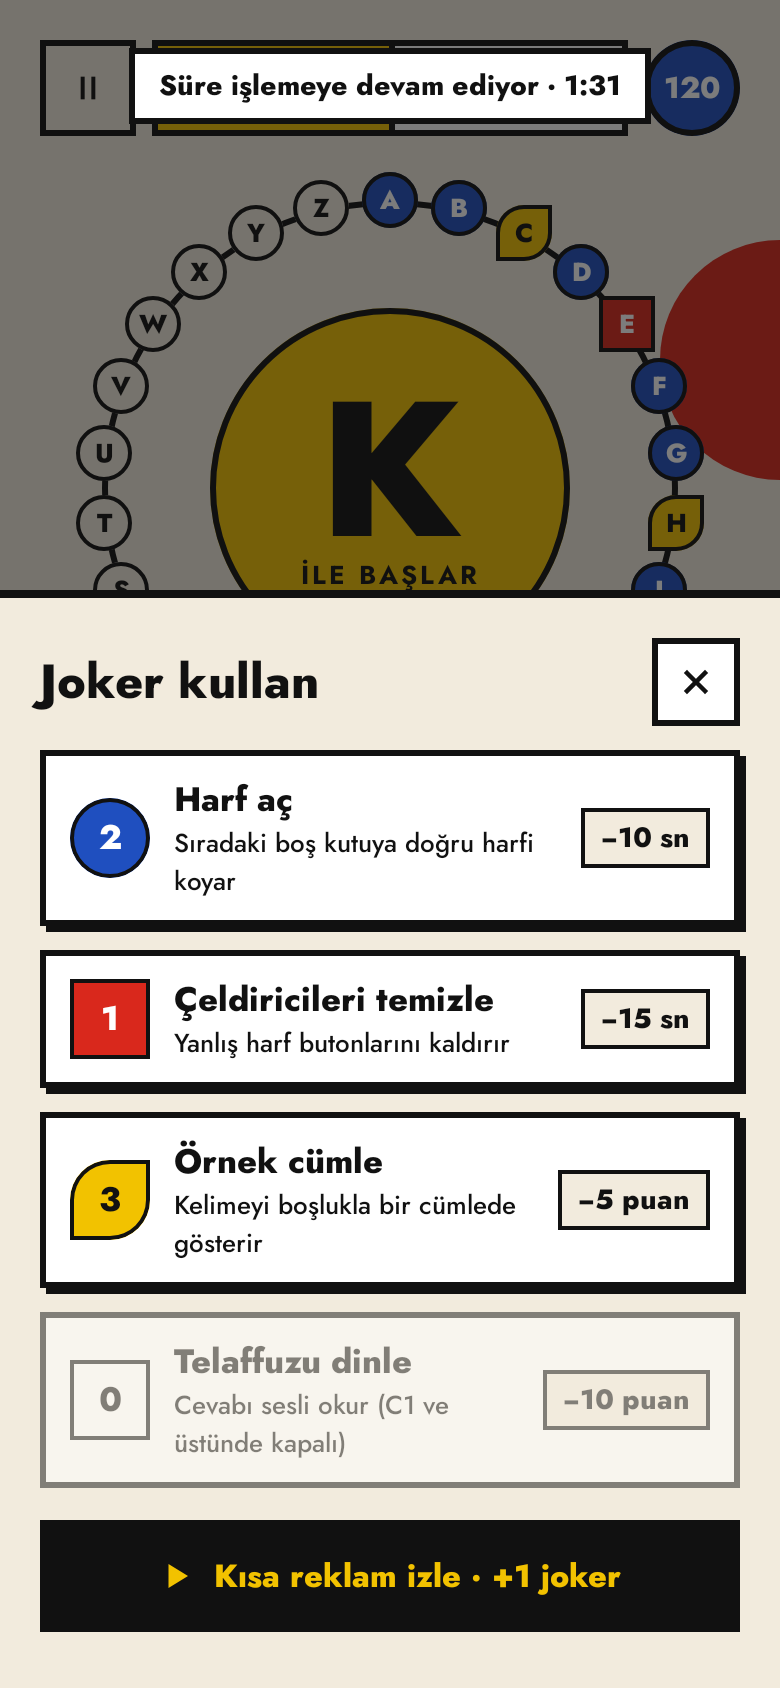
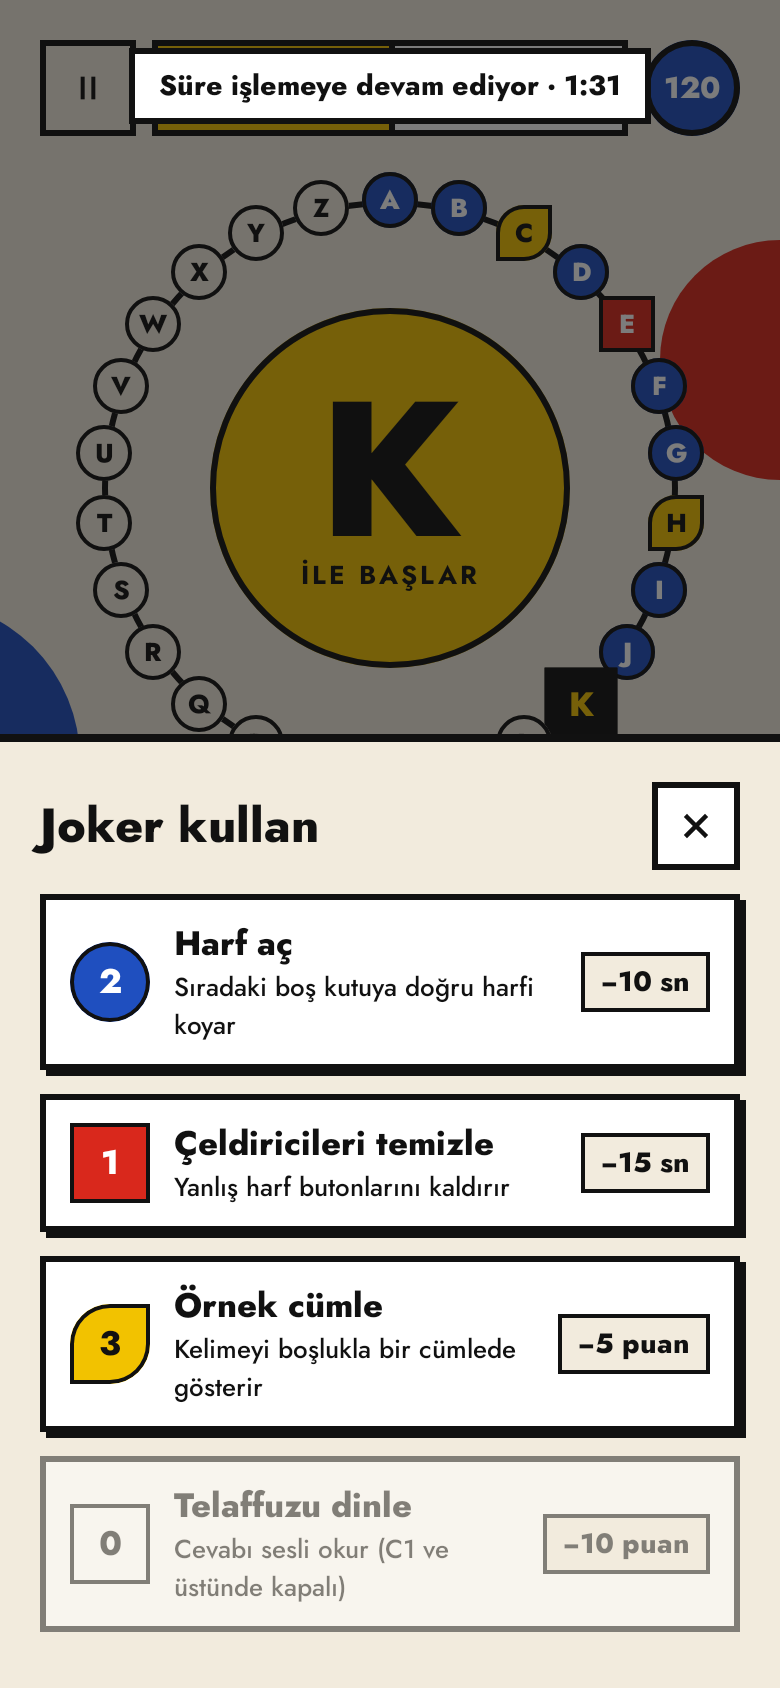
feat(game): owner decisions on play-again, ad button and combo badge
TEKRAR OYNA keeps starting the same level and mode but is hidden after a
Daily wheel (one scored attempt per day); both deviations from 06-result
are noted in screen-map. The rewarded-ad joker button sits behind
FeatureFlags.rewardedAdJokers (off until M7). The x N SERI badge moves
into the HUD row next to the score so it never covers the centre letter
or the wheel chips; timings unchanged.

diff --git a/feature/game/src/commonMain/kotlin/dev/talhabayhan/lexi/feature/game/result/ResultScreen.kt b/feature/game/src/commonMain/kotlin/dev/talhabayhan/lexi/feature/game/result/ResultScreen.kt
@@ -123,7 +123,7 @@ internal fun ResultScreen(state: ResultUiState, onIntent: (ResultIntent) -> Unit
                 Stats(state)
                 Review(state, onIntent)
                 Spacer(Modifier.weight(1f))
-                Actions(onIntent)
+                Actions(state.canPlayAgain, onIntent)
                 LexiTextLink(
                     text = stringResource(Res.string.result_home),
                     onClick = { onIntent(ResultIntent.Home) },
@@ -244,28 +244,33 @@ private fun Review(state: ResultUiState, onIntent: (ResultIntent) -> Unit) {
     }
 }
 
-/** 3-column grid, gap 10: TEKRAR OYNA spans two columns, Paylaş one (both 60dp, s5). */
+/**
+ * 3-column grid, gap 10: TEKRAR OYNA spans two columns, Paylaş one (both 60dp, s5). Without [canPlayAgain] (a finished
+ * Daily, deviation from the design) Paylaş takes the whole row.
+ */
 @Composable
-private fun Actions(onIntent: (ResultIntent) -> Unit) {
+private fun Actions(canPlayAgain: Boolean, onIntent: (ResultIntent) -> Unit) {
     val gap = LexiTheme.dimens.gap10
     BoxWithConstraints(Modifier.fillMaxWidth()) {
         val column = (maxWidth - gap * (ResultDefaults.CTA_COLUMNS - 1)) / ResultDefaults.CTA_COLUMNS
         Row(horizontalArrangement = Arrangement.spacedBy(gap)) {
-            LexiButton(
-                text = stringResource(Res.string.result_play_again),
-                onClick = { onIntent(ResultIntent.PlayAgain) },
-                textStyle = LexiTheme.typography.button20Wide,
-                height = LexiButtonDefaults.LargerHeight,
-                modifier = Modifier.width(
-                    column * ResultDefaults.CTA_PRIMARY_SPAN + gap * (ResultDefaults.CTA_PRIMARY_SPAN - 1),
-                ),
-            )
+            if (canPlayAgain) {
+                LexiButton(
+                    text = stringResource(Res.string.result_play_again),
+                    onClick = { onIntent(ResultIntent.PlayAgain) },
+                    textStyle = LexiTheme.typography.button20Wide,
+                    height = LexiButtonDefaults.LargerHeight,
+                    modifier = Modifier.width(
+                        column * ResultDefaults.CTA_PRIMARY_SPAN + gap * (ResultDefaults.CTA_PRIMARY_SPAN - 1),
+                    ),
+                )
+            }
             LexiButton(
                 text = stringResource(Res.string.result_share),
                 onClick = { onIntent(ResultIntent.Share) },
                 variant = LexiButtonVariant.Secondary,
                 height = LexiButtonDefaults.LargerHeight,
-                modifier = Modifier.width(column),
+                modifier = if (canPlayAgain) Modifier.width(column) else Modifier.fillMaxWidth(),
             )
         }
     }

diff --git a/feature/game/src/commonMain/kotlin/dev/talhabayhan/lexi/feature/game/components/JokerSheet.kt b/feature/game/src/commonMain/kotlin/dev/talhabayhan/lexi/feature/game/components/JokerSheet.kt
@@ -63,14 +63,14 @@ import org.jetbrains.compose.resources.stringResource
 /**
  * The joker sheet (`05-joker-sheet`): bottom sheet (motion.md #10) with the four jokers and the ad button, plus the
  * "Süre işlemeye devam ediyor · 1:31" pill at the top, because the clock keeps running (`GAME_RULES.md` §5; untimed
- * modes show no pill). [adReward] is `GameConfig.rewardedAdJokerReward`. Fills its parent; renders nothing while
+ * modes show no pill). [adReward] is `GameConfig.rewardedAdJokerReward`; null hides the ad button (feature flag). Fills its parent; renders nothing while
  * not [visible].
  */
 @Composable
 internal fun JokerSheet(
     visible: Boolean,
     jokers: ImmutableList<JokerUi>,
-    adReward: Int,
+    adReward: Int?,
     clock: () -> GameClockUi,
     onIntent: (GameIntent) -> Unit,
     modifier: Modifier = Modifier,
@@ -85,16 +85,18 @@ internal fun JokerSheet(
             closeContentDescription = stringResource(Res.string.game_jokers_close),
         ) {
             jokers.forEach { joker -> JokerOption(joker, onClick = { onIntent(GameIntent.UseJoker(joker.type)) }) }
-            LexiButton(
-                text = stringResource(Res.string.game_jokers_ad, adReward),
-                // TODO(M7): rewarded ad with UMP consent (`ROADMAP.md` M7); the button has no action until then.
-                onClick = {},
-                variant = LexiButtonVariant.Ink,
-                shadow = null,
-                leadingIcon = LexiIcons.Play,
-                height = LexiButtonDefaults.LargeHeight,
-                modifier = Modifier.fillMaxWidth().padding(top = JokerRowDefaults.AdButtonTopMargin),
-            )
+            if (adReward != null) {
+                LexiButton(
+                    text = stringResource(Res.string.game_jokers_ad, adReward),
+                    // TODO(M7): rewarded ad with UMP consent (`ROADMAP.md` M7); behind `FeatureFlags.rewardedAdJokers`.
+                    onClick = {},
+                    variant = LexiButtonVariant.Ink,
+                    shadow = null,
+                    leadingIcon = LexiIcons.Play,
+                    height = LexiButtonDefaults.LargeHeight,
+                    modifier = Modifier.fillMaxWidth().padding(top = JokerRowDefaults.AdButtonTopMargin),
+                )
+            }
         }
         val timed by remember(clock) { derivedStateOf { clock().isTimed } }
         val fade = tween<Float>(motion.bottomSheetDurationMillis, easing = motion.mechanical)

diff --git a/feature/game/src/commonMain/kotlin/dev/talhabayhan/lexi/feature/game/components/GameMotion.kt b/feature/game/src/commonMain/kotlin/dev/talhabayhan/lexi/feature/game/components/GameMotion.kt
@@ -12,7 +12,6 @@ import androidx.compose.runtime.mutableStateMapOf
 import androidx.compose.runtime.mutableStateOf
 import androidx.compose.runtime.remember
 import androidx.compose.runtime.setValue
-import androidx.compose.ui.geometry.Offset
 import androidx.compose.ui.geometry.Rect
 import androidx.compose.ui.geometry.lerp
 import androidx.compose.ui.layout.LayoutCoordinates
@@ -40,7 +39,7 @@ import kotlinx.coroutines.delay
  * - #3 pop + ring and #5 turn + morph + arrow: [chipMotion] for `LetterWheel`.
  * - #4 shake: [slotsOffset] of the answer slots (their red comes from the state's wrong cells).
  * - #6: the current square jumps with the state; the centre letter slides inside `LetterWheel`.
- * - #7 [ComboAnimation]: burst and badge over the wheel centre ([GameMotionLayer]).
+ * - #7 [ComboAnimation]: burst and badge in the HUD row next to the score ([GameMotionLayer]).
  * - #8: only feedback here; colours and the per-second counter pulse live in `TimerBar`.
  */
 @Stable
@@ -66,7 +65,7 @@ internal class GameMotion(
 
     // Placement of the elements the overlay animates between (not state: read when an animation starts).
     private var overlay: LayoutCoordinates? = null
-    private var wheel: LayoutCoordinates? = null
+    private var hud: LayoutCoordinates? = null
     private val keys = HashMap<Int, LayoutCoordinates>()
     private val cells = HashMap<Int, LayoutCoordinates>()
 
@@ -74,8 +73,8 @@ internal class GameMotion(
         overlay = coordinates
     }
 
-    fun onWheelPlaced(coordinates: LayoutCoordinates) {
-        wheel = coordinates
+    fun onHudPlaced(coordinates: LayoutCoordinates) {
+        hud = coordinates
     }
 
     fun onKeyPlaced(index: Int, coordinates: LayoutCoordinates) {
@@ -92,8 +91,8 @@ internal class GameMotion(
     /** #3 / #5 motion of the wheel chip of [letter], null at rest. */
     fun chipMotion(letter: Char): WheelChipMotion? = chips[letter]
 
-    /** Centre of the wheel in the overlay's coordinates, null before both are placed. */
-    fun wheelCenter(): Offset? = bounds(wheel)?.center
+    /** The HUD bar (pause, timer, score) in the overlay's coordinates, null before both are placed. */
+    fun hudBounds(): Rect? = bounds(hud)
 
     suspend fun play(effect: GameEffect) {
         GameFeedback.of(effect)?.let { feedback ->

diff --git a/feature/game/src/commonMain/kotlin/dev/talhabayhan/lexi/feature/game/components/GameMotionLayer.kt b/feature/game/src/commonMain/kotlin/dev/talhabayhan/lexi/feature/game/components/GameMotionLayer.kt
@@ -15,6 +15,7 @@ import androidx.compose.ui.semantics.clearAndSetSemantics
 import androidx.compose.ui.unit.Constraints
 import dev.talhabayhan.lexi.core.designsystem.component.ComboBadge
 import dev.talhabayhan.lexi.core.designsystem.component.ComboBurst
+import dev.talhabayhan.lexi.core.designsystem.component.GameHudDefaults
 import dev.talhabayhan.lexi.core.designsystem.modifier.lexiSurface
 import dev.talhabayhan.lexi.core.designsystem.theme.LexiTheme
 import dev.talhabayhan.lexi.feature.game.generated.resources.Res
@@ -62,20 +63,22 @@ private fun FlyingLetter(flight: LetterFlight) {
 }
 
 /**
- * #7 centred on the wheel. DESIGN-DEBT: `15-motion` shows badge and burst alone; their place in the game (the wheel
- * centre) has no design (`screen-map.md`).
+ * #7 in the HUD row, vertically centred on it and right-aligned next to the score circle (over the empty end of the
+ * timer bar), so it stays off the centre letter and the wheel chips (the strip under the HUD is too thin for it).
+ * DESIGN-DEBT: `15-motion` shows badge and burst alone; their place in the game has no design (`screen-map.md`).
  */
 @Composable
 private fun Combo(combo: ComboAnimation, motion: GameMotion) {
+    val scoreClearance = GameHudDefaults.BarHeight + LexiTheme.dimens.gap8
     Box(
         modifier = Modifier.layout { measurable, constraints ->
             val placeable = measurable.measure(constraints.copy(minWidth = 0, minHeight = 0))
-            val center = motion.wheelCenter()
+            val hud = motion.hudBounds()
             layout(placeable.width, placeable.height) {
-                if (center != null) {
+                if (hud != null) {
                     placeable.place(
-                        (center.x - placeable.width / 2f).roundToInt(),
-                        (center.y - placeable.height / 2f).roundToInt(),
+                        (hud.right - scoreClearance.toPx() - placeable.width).roundToInt(),
+                        (hud.center.y - placeable.height / 2f).roundToInt(),
                     )
                 }
             }

diff --git a/feature/game/src/commonTest/kotlin/dev/talhabayhan/lexi/feature/game/GameViewModelTest.kt b/feature/game/src/commonTest/kotlin/dev/talhabayhan/lexi/feature/game/GameViewModelTest.kt
@@ -6,6 +6,7 @@ import app.cash.turbine.ReceiveTurbine
 import app.cash.turbine.test
 import dev.talhabayhan.lexi.core.designsystem.component.AnswerSlotState
 import dev.talhabayhan.lexi.core.designsystem.component.WheelLetterState
+import dev.talhabayhan.lexi.core.domain.config.FeatureFlags
 import dev.talhabayhan.lexi.core.domain.game.GameConfig
 import dev.talhabayhan.lexi.core.domain.game.GameEngine
 import dev.talhabayhan.lexi.core.domain.game.GameMode
@@ -79,6 +80,7 @@ class GameViewModelTest {
         handle: SavedStateHandle = routeHandle(),
         jokerRepository: JokerRepository = jokers,
         sessionRepository: SessionRepository = sessions,
+        flags: FeatureFlags = FeatureFlags(),
     ): GameViewModel = GameViewModel(
         route = route,
         handle = handle,
@@ -92,6 +94,7 @@ class GameViewModelTest {
         config = config,
         timeSource = testScheduler.timeSource,
         seeds = SeedSource { SEED },
+        flags = flags,
     )
 
     /** Loaded and resumed: the game has started (A is current). */
@@ -440,6 +443,17 @@ class GameViewModelTest {
     }
 
     // region joker sheet (05-joker-sheet)
+
+    @Test
+    fun `the joker ad button is off by default and follows the feature flag`() = runTest {
+        assertFalse(started().state.value.showJokerAd)
+
+        val flagged = viewModel(flags = FeatureFlags(rewardedAdJokers = true)).also {
+            runCurrent()
+            it.onIntent(GameIntent.Foreground)
+        }
+        assertTrue(flagged.state.value.showJokerAd)
+    }
 
     @Test
     fun `the joker sheet opens without pausing and the clock keeps running`() = runTest {

diff --git a/feature/game/src/commonMain/kotlin/dev/talhabayhan/lexi/feature/game/GameScreen.kt b/feature/game/src/commonMain/kotlin/dev/talhabayhan/lexi/feature/game/GameScreen.kt
@@ -96,7 +96,14 @@ internal fun GameScreen(
                 gap = dimens.gap16 * gapScale,
                 answerTopMargin = dimens.gap4 * gapScale,
                 maxWheelSize = if (short) GameScreenDefaults.ShortScreenWheelSize else LetterWheelDefaults.Size,
-                hud = { GameHudBar(state.score, clock, onPause = { onIntent(GameIntent.Pause) }) },
+                hud = {
+                    GameHudBar(
+                        state.score,
+                        clock,
+                        onPause = { onIntent(GameIntent.Pause) },
+                        modifier = Modifier.onPlaced(motion::onHudPlaced),
+                    )
+                },
                 wheel = { size ->
                     LetterWheel(
                         letters = state.wheel,
@@ -104,7 +111,6 @@ internal fun GameScreen(
                         ruleLabel = turn?.let { stringResource(it.rule.label()) }.orEmpty(),
                         size = size,
                         chipMotion = motion::chipMotion,
-                        modifier = Modifier.onPlaced(motion::onWheelPlaced),
                     )
                 },
                 clue = {
@@ -161,7 +167,7 @@ internal fun GameScreen(
         JokerSheet(
             visible = state.isJokerSheetOpen,
             jokers = state.jokers,
-            adReward = state.jokerAdReward,
+            adReward = state.jokerAdReward.takeIf { state.showJokerAd },
             clock = clock,
             onIntent = onIntent,
         )

diff --git a/feature/game/src/androidHostTest/kotlin/dev/talhabayhan/lexi/feature/game/result/ResultScreenBehaviourTest.kt b/feature/game/src/androidHostTest/kotlin/dev/talhabayhan/lexi/feature/game/result/ResultScreenBehaviourTest.kt
@@ -1,0 +1,39 @@
+package dev.talhabayhan.lexi.feature.game.result
+
+import androidx.compose.ui.test.ExperimentalTestApi
+import androidx.compose.ui.test.assertIsDisplayed
+import androidx.compose.ui.test.onNodeWithText
+import androidx.compose.ui.test.runComposeUiTest
+import dev.talhabayhan.lexi.core.designsystem.theme.LexiTheme
+import dev.talhabayhan.lexi.core.domain.game.GameMode
+import org.junit.Test
+import org.junit.runner.RunWith
+import org.robolectric.RobolectricTestRunner
+import org.robolectric.annotation.Config
+import org.robolectric.annotation.GraphicsMode
+
+@OptIn(ExperimentalTestApi::class)
+@RunWith(RobolectricTestRunner::class)
+@GraphicsMode(GraphicsMode.Mode.NATIVE)
+@Config(sdk = [36], qualifiers = "tr-w390dp-h844dp-xhdpi")
+class ResultScreenBehaviourTest {
+
+    @Test
+    fun `tekrar oyna is shown after a normal game`() = runComposeUiTest {
+        setContent { LexiTheme(reducedMotion = true) { ResultScreen(ResultSamples.design, onIntent = {}) } }
+
+        onNodeWithText("TEKRAR OYNA").assertIsDisplayed()
+    }
+
+    @Test
+    fun `tekrar oyna is hidden after a daily and share stays`() = runComposeUiTest {
+        setContent {
+            LexiTheme(reducedMotion = true) {
+                ResultScreen(ResultSamples.design.copy(mode = GameMode.DAILY), onIntent = {})
+            }
+        }
+
+        onNodeWithText("TEKRAR OYNA").assertDoesNotExist()
+        onNodeWithText("Paylaş").assertIsDisplayed()
+    }
+}

diff --git a/feature/game/src/commonMain/kotlin/dev/talhabayhan/lexi/feature/game/GameViewModel.kt b/feature/game/src/commonMain/kotlin/dev/talhabayhan/lexi/feature/game/GameViewModel.kt
@@ -4,6 +4,7 @@ import androidx.lifecycle.SavedStateHandle
 import androidx.lifecycle.ViewModel
 import androidx.lifecycle.viewModelScope
 import co.touchlab.kermit.Logger
+import dev.talhabayhan.lexi.core.domain.config.FeatureFlags
 import dev.talhabayhan.lexi.core.domain.feedback.Speaker
 import dev.talhabayhan.lexi.core.domain.game.EngineEffect
 import dev.talhabayhan.lexi.core.domain.game.GameConfig
@@ -73,6 +74,7 @@ internal class GameViewModel(
     private val config: GameConfig,
     private val timeSource: TimeSource.WithComparableMarks,
     private val seeds: SeedSource,
+    private val flags: FeatureFlags = FeatureFlags(),
 ) : ViewModel() {
     private val mutableState = MutableStateFlow(GameUiState())
     val state: StateFlow<GameUiState> = mutableState.asStateFlow()
@@ -259,6 +261,7 @@ internal class GameViewModel(
         mutableState.value = GameUiMapper.map(state, checkNotNull(engine), mutableState.value).copy(
             isJokerSheetOpen = jokerSheetOpen,
             isQuitConfirmation = quitConfirmation,
+            showJokerAd = flags.rewardedAdJokers,
         )
         mutableClock.value = GameUiMapper.clock(
             state = state,

diff --git a/feature/game/src/commonMain/kotlin/dev/talhabayhan/lexi/feature/game/result/ResultViewModel.kt b/feature/game/src/commonMain/kotlin/dev/talhabayhan/lexi/feature/game/result/ResultViewModel.kt
@@ -34,10 +34,16 @@ internal class ResultViewModel(
     private val mutableState = MutableStateFlow(initialState(route, config))
     val state: StateFlow<ResultUiState> = mutableState.asStateFlow()
 
-    /** The game behind TEKRAR OYNA: same level, mode and category. */
-    // TODO(M6): the Daily wheel allows one scored attempt per day (GAME_RULES.md §5), so a finished Daily must not be
-    //  replayable from here (hide or redirect TEKRAR OYNA).
-    val playAgain: GameRoute get() = GameRoute(route.gameLevel, route.gameMode, route.categoryId)
+    /**
+     * The game behind TEKRAR OYNA: same level, mode and category. Null for a finished Daily: it allows one scored
+     * attempt per day (`GAME_RULES.md` §5), so the button is hidden ([ResultUiState.canPlayAgain]).
+     */
+    val playAgain: GameRoute?
+        get() = if (mutableState.value.canPlayAgain) {
+            GameRoute(route.gameLevel, route.gameMode, route.categoryId)
+        } else {
+            null
+        }
 
     private var allRows: List<ReviewRowUi> = emptyList()
     private var expanded = false

diff --git a/shared/src/commonMain/kotlin/dev/talhabayhan/lexi/di/AppModules.kt b/shared/src/commonMain/kotlin/dev/talhabayhan/lexi/di/AppModules.kt
@@ -3,6 +3,7 @@ package dev.talhabayhan.lexi.di
 import androidx.compose.runtime.Composable
 import dev.talhabayhan.lexi.core.data.db.BundledContentDb
 import dev.talhabayhan.lexi.core.data.di.dataModule
+import dev.talhabayhan.lexi.core.domain.config.FeatureFlags
 import dev.talhabayhan.lexi.core.domain.game.GameConfig
 import dev.talhabayhan.lexi.core.domain.joker.GrantDailyJokers
 import dev.talhabayhan.lexi.core.domain.session.FinishGame
@@ -26,6 +27,7 @@ import org.koin.dsl.onClose
  */
 internal val appCoreModule: Module = module {
     single { GameConfig() }
+    single { FeatureFlags() }
     single<BundledContentDb> { ResourcesBundledContentDb() }
     single<AppClock> { SystemAppClock() }
     factory { FinishGame(sessions = get(), progress = get(), clock = get(), config = get()) }

diff --git a/feature/game/src/commonMain/kotlin/dev/talhabayhan/lexi/feature/game/GameContract.kt b/feature/game/src/commonMain/kotlin/dev/talhabayhan/lexi/feature/game/GameContract.kt
@@ -34,6 +34,8 @@ internal data class GameUiState(
     val jokers: ImmutableList<JokerUi> = persistentListOf(),
     /** Jokers one rewarded ad grants (`GameConfig.rewardedAdJokerReward`), for the sheet's ad button. */
     val jokerAdReward: Int = 0,
+    /** The ad button is shown (`FeatureFlags.rewardedAdJokers`, off until M7). */
+    val showJokerAd: Boolean = false,
     /** The joker sheet is open; the clock keeps running (`GAME_RULES.md` §5). */
     val isJokerSheetOpen: Boolean = false,
     /** The pause dialog asks to confirm giving up ("Bırak"). Only while [isPaused]. */

diff --git a/feature/game/src/commonTest/kotlin/dev/talhabayhan/lexi/feature/game/result/ResultViewModelTest.kt b/feature/game/src/commonTest/kotlin/dev/talhabayhan/lexi/feature/game/result/ResultViewModelTest.kt
@@ -160,4 +160,19 @@ class ResultViewModelTest {
             viewModel().playAgain,
         )
     }
+
+    @Test
+    fun `a finished daily cannot be played again`() = runTest {
+        val vm = viewModel(route(mode = GameMode.DAILY))
+
+        assertFalse(vm.state.value.canPlayAgain)
+        assertNull(vm.playAgain)
+    }
+
+    @Test
+    fun `other modes can be played again`() = runTest {
+        GameMode.entries.filter { it != GameMode.DAILY }.forEach { mode ->
+            assertTrue(viewModel(route(mode = mode)).state.value.canPlayAgain, mode.name)
+        }
+    }
 }
